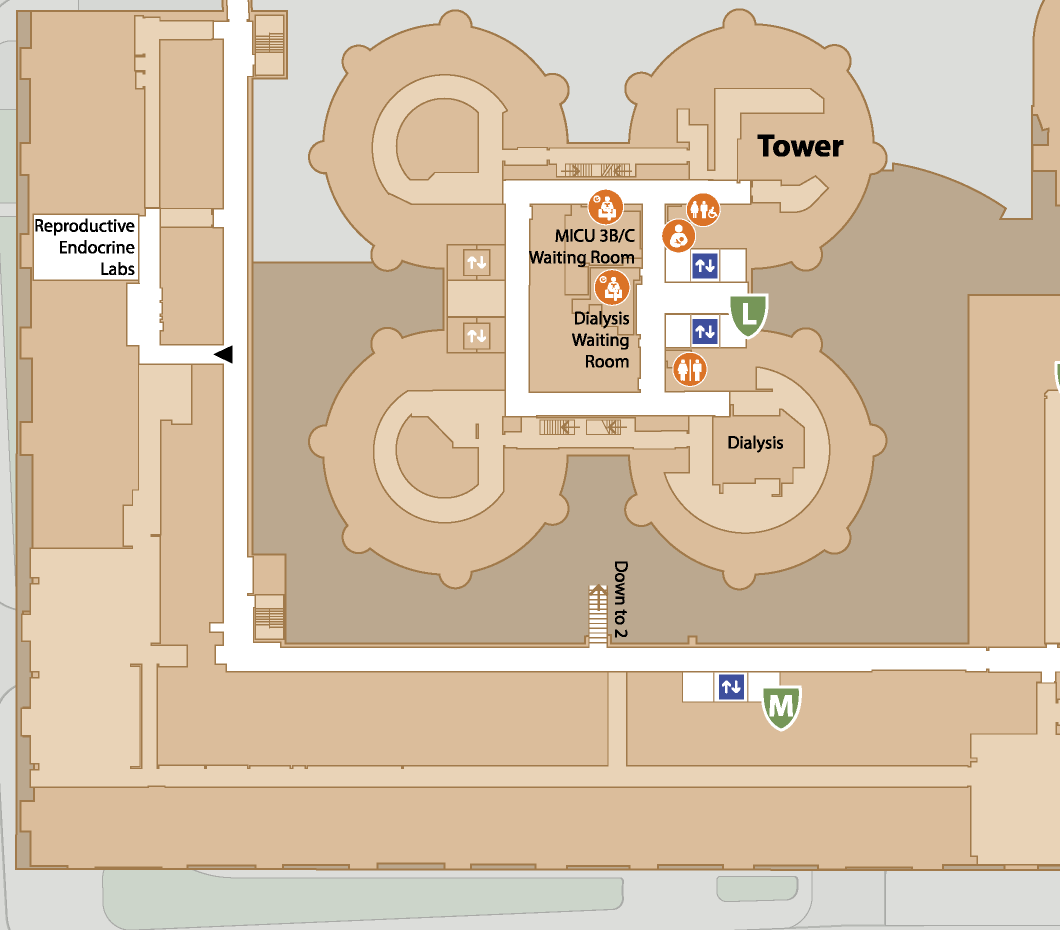
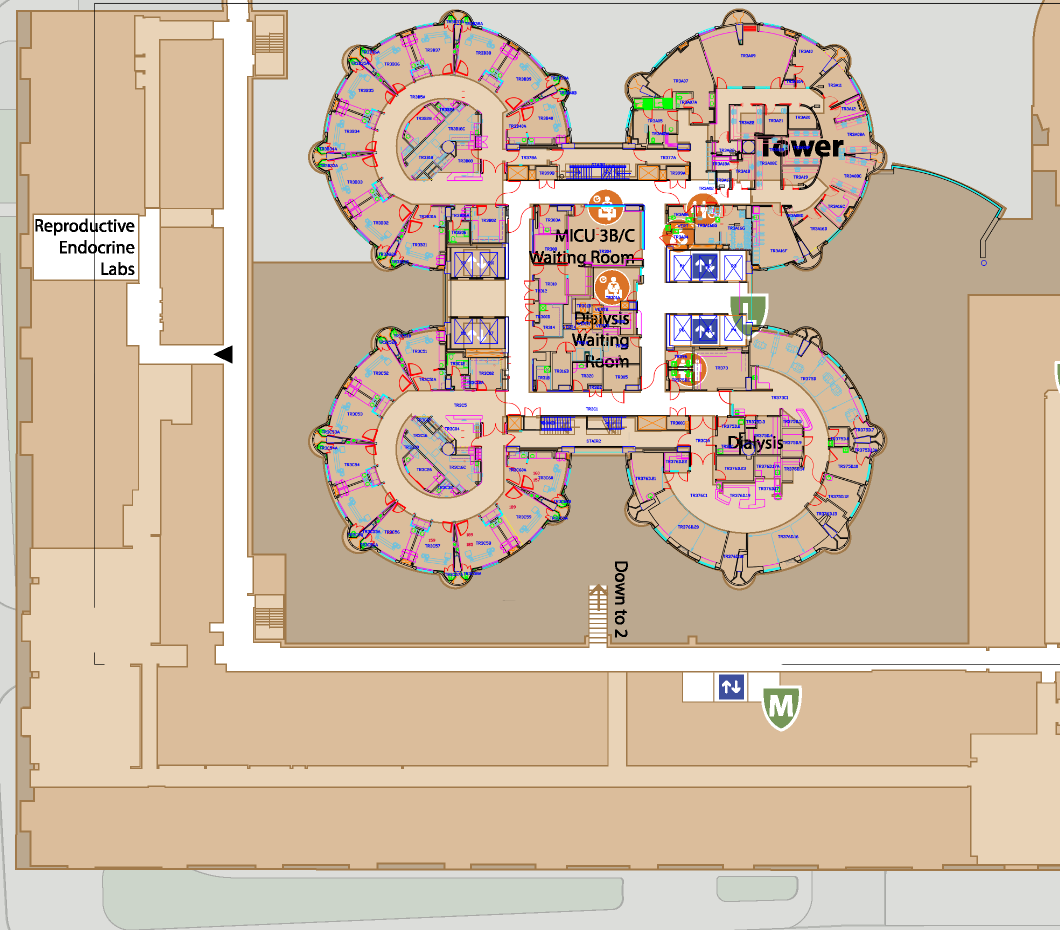
Add Floors four and five maps

Changed region(s): [[0.2802, 0.0, 0.8717, 0.6237], [0.8717, 0.1871, 0.934, 0.2183], [0.934, 0.2183, 0.9651, 0.2495]]

diff --git a/src/main/java/edu/wpi/cs3733/D22/teamB/controllers/interactiveMapPageController.java b/src/main/java/edu/wpi/cs3733/D22/teamB/controllers/interactiveMapPageController.java
@@ -446,7 +446,7 @@ public class interactiveMapPageController extends MenuBarController {
     floorLevel = 5;
     floorString = "4";
     resetFloorSelectors();
-    mapImage.setImage(new Image("/edu/wpi/cs3733/D22/teamB/assets/mapAssets/thirdFloor.png"));
+    mapImage.setImage(new Image("/edu/wpi/cs3733/D22/teamB/assets/mapAssets/fourthFloor.png"));
     f4Button.setImage(new Image("edu/wpi/cs3733/D22/teamB/assets/mapAssets/SelectedFloor.png"));
     setAll();
   }
@@ -455,7 +455,7 @@ public class interactiveMapPageController extends MenuBarController {
     floorLevel = 6;
     floorString = "5";
     resetFloorSelectors();
-    mapImage.setImage(new Image("/edu/wpi/cs3733/D22/teamB/assets/mapAssets/thirdFloor.png"));
+    mapImage.setImage(new Image("/edu/wpi/cs3733/D22/teamB/assets/mapAssets/fifthFloor.png"));
     f5Button.setImage(new Image("edu/wpi/cs3733/D22/teamB/assets/mapAssets/SelectedFloor.png"));
     setAll();
   }

diff --git a/src/main/java/edu/wpi/cs3733/D22/teamB/Main.java b/src/main/java/edu/wpi/cs3733/D22/teamB/Main.java
@@ -1,7 +1,6 @@
 package edu.wpi.cs3733.D22.teamB;
 
 import edu.wpi.cs3733.D22.teamB.databases.*;
-import java.util.LinkedList;
 
 public class Main {
 
